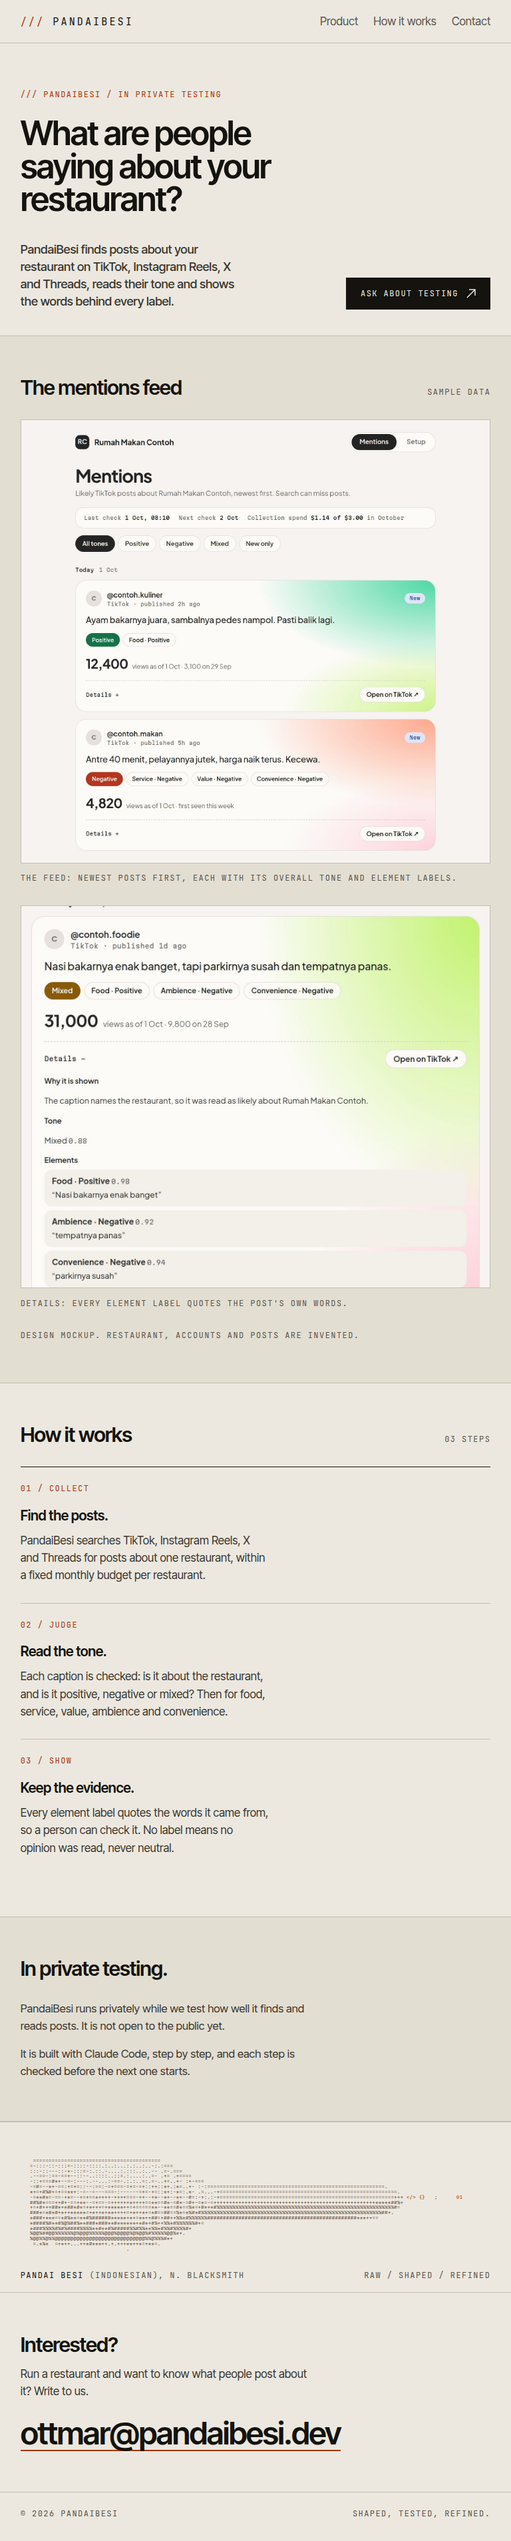
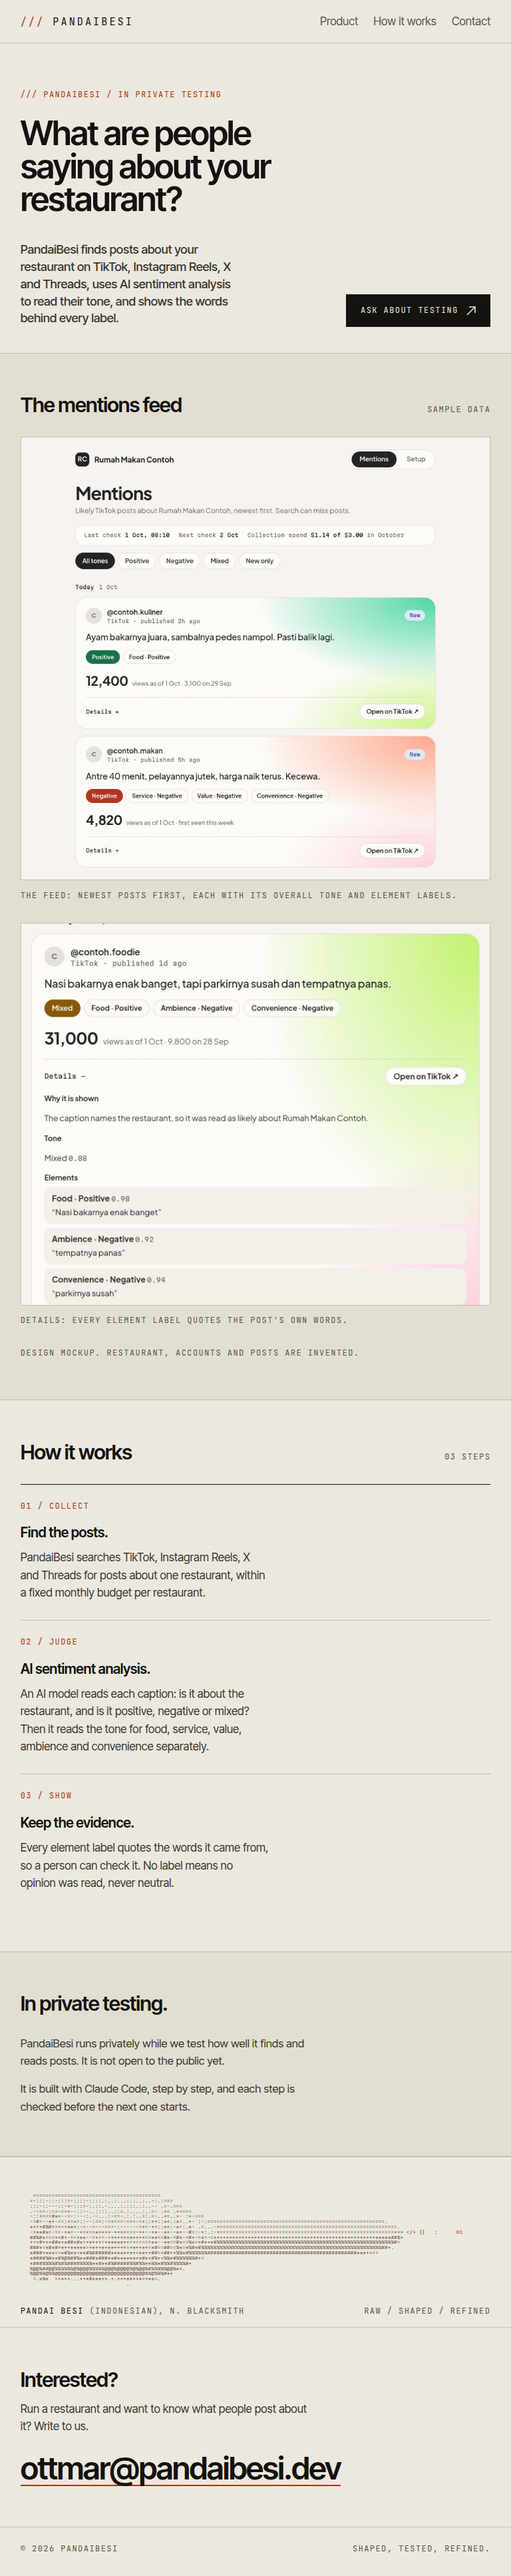
Name AI sentiment analysis on the home page
The lede, meta description and the judge step now say that an AI model reads
each post's tone.

diff --git a/site/index.html b/site/index.html
@@ -4,7 +4,7 @@
 <meta charset="utf-8">
 <meta name="viewport" content="width=device-width, initial-scale=1">
 <title>PandaiBesi | What people say about your restaurant</title>
-<meta name="description" content="PandaiBesi finds what people post about your restaurant on TikTok, Instagram Reels, X and Threads, reads the tone of each post and shows the words behind every label. In private testing.">
+<meta name="description" content="PandaiBesi finds what people post about your restaurant on TikTok, Instagram Reels, X and Threads, uses AI sentiment analysis to read the tone of each post, and shows the words behind every label. In private testing.">
 <meta name="theme-color" content="#ECE8DF">
 <meta name="color-scheme" content="light">
 <link rel="canonical" href="https://pandaibesi.dev/">
@@ -138,7 +138,7 @@ footer .wrap{display:flex;justify-content:space-between;flex-wrap:wrap;gap:.5rem
     <p class="eyebrow label">/// PandaiBesi / In private testing</p>
     <h1>What are people saying about your restaurant?</h1>
     <div class="hero-foot">
-      <p class="lede">PandaiBesi finds posts about your restaurant on TikTok, Instagram Reels, X and Threads, reads their tone and shows the words behind every label.</p>
+      <p class="lede">PandaiBesi finds posts about your restaurant on TikTok, Instagram Reels, X and Threads, uses AI sentiment analysis to read their tone, and shows the words behind every label.</p>
       <a class="btn label" href="mailto:ottmar@pandaibesi.dev?subject=PandaiBesi">Ask about testing <svg viewBox="0 0 14 14" aria-hidden="true"><path d="M1 13 13 1M4 1h9v9" fill="none" stroke="currentColor" stroke-width="1.5"/></svg></a>
     </div>
   </div>
@@ -177,8 +177,8 @@ footer .wrap{display:flex;justify-content:space-between;flex-wrap:wrap;gap:.5rem
         </article>
         <article>
           <p class="label">02 / Judge</p>
-          <h3>Read the tone.</h3>
-          <p>Each caption is checked: is it about the restaurant, and is it positive, negative or mixed? Then for food, service, value, ambience and convenience.</p>
+          <h3>AI sentiment analysis.</h3>
+          <p>An AI model reads each caption: is it about the restaurant, and is it positive, negative or mixed? Then it reads the tone for food, service, value, ambience and convenience separately.</p>
         </article>
         <article>
           <p class="label">03 / Show</p>
